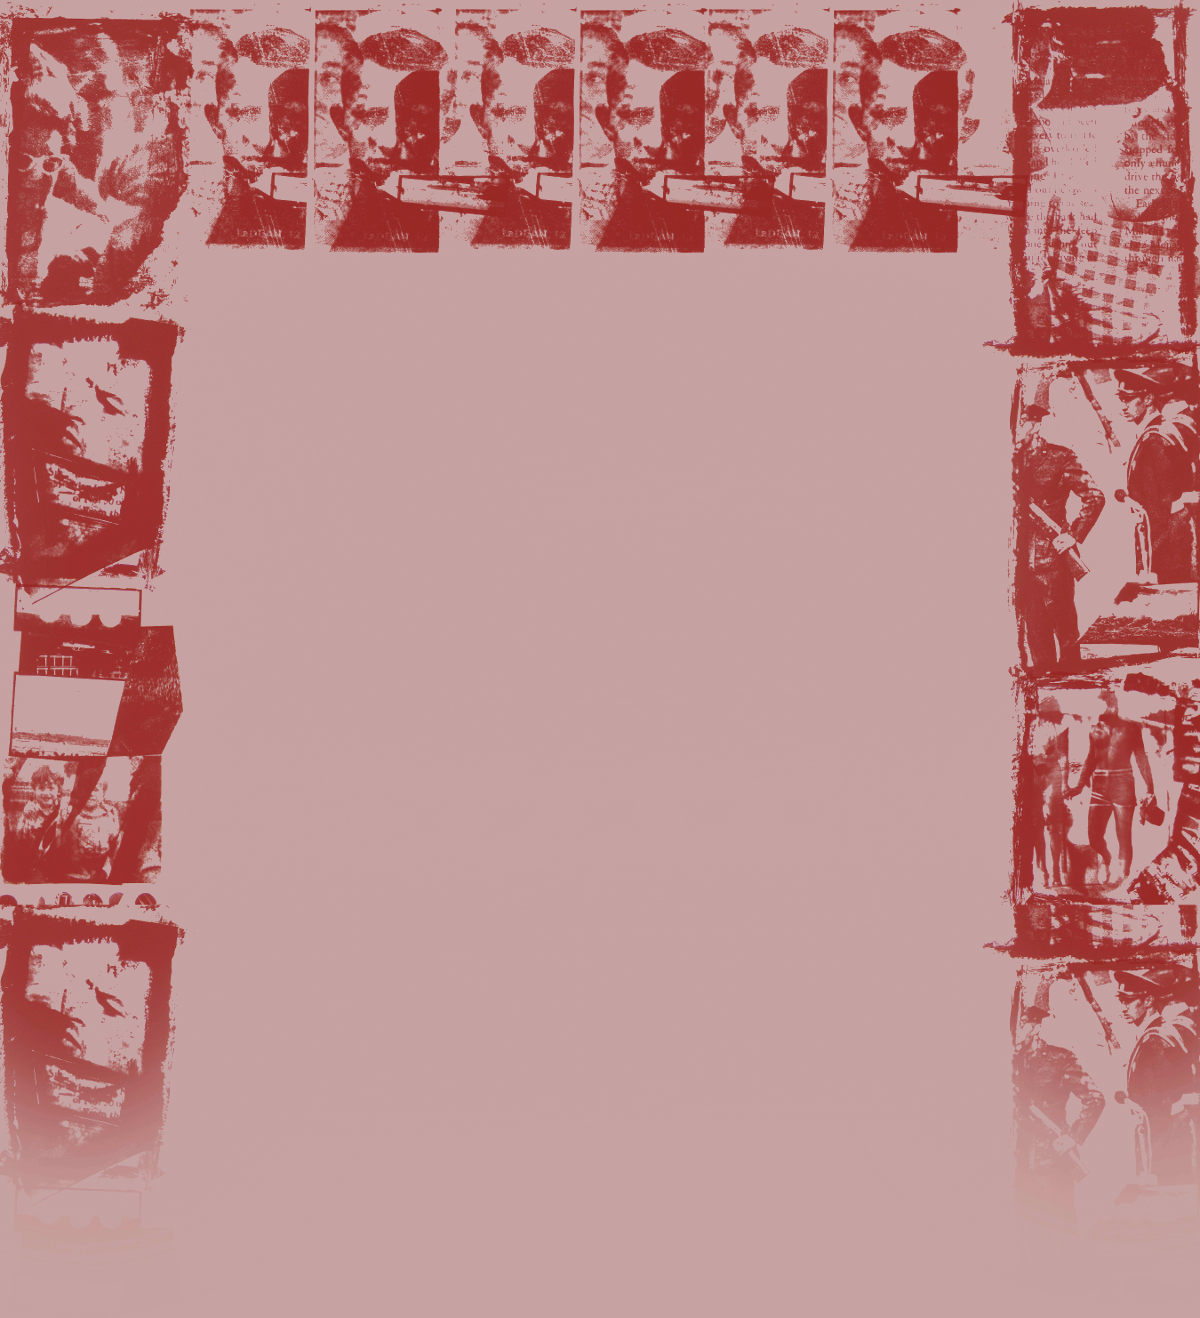
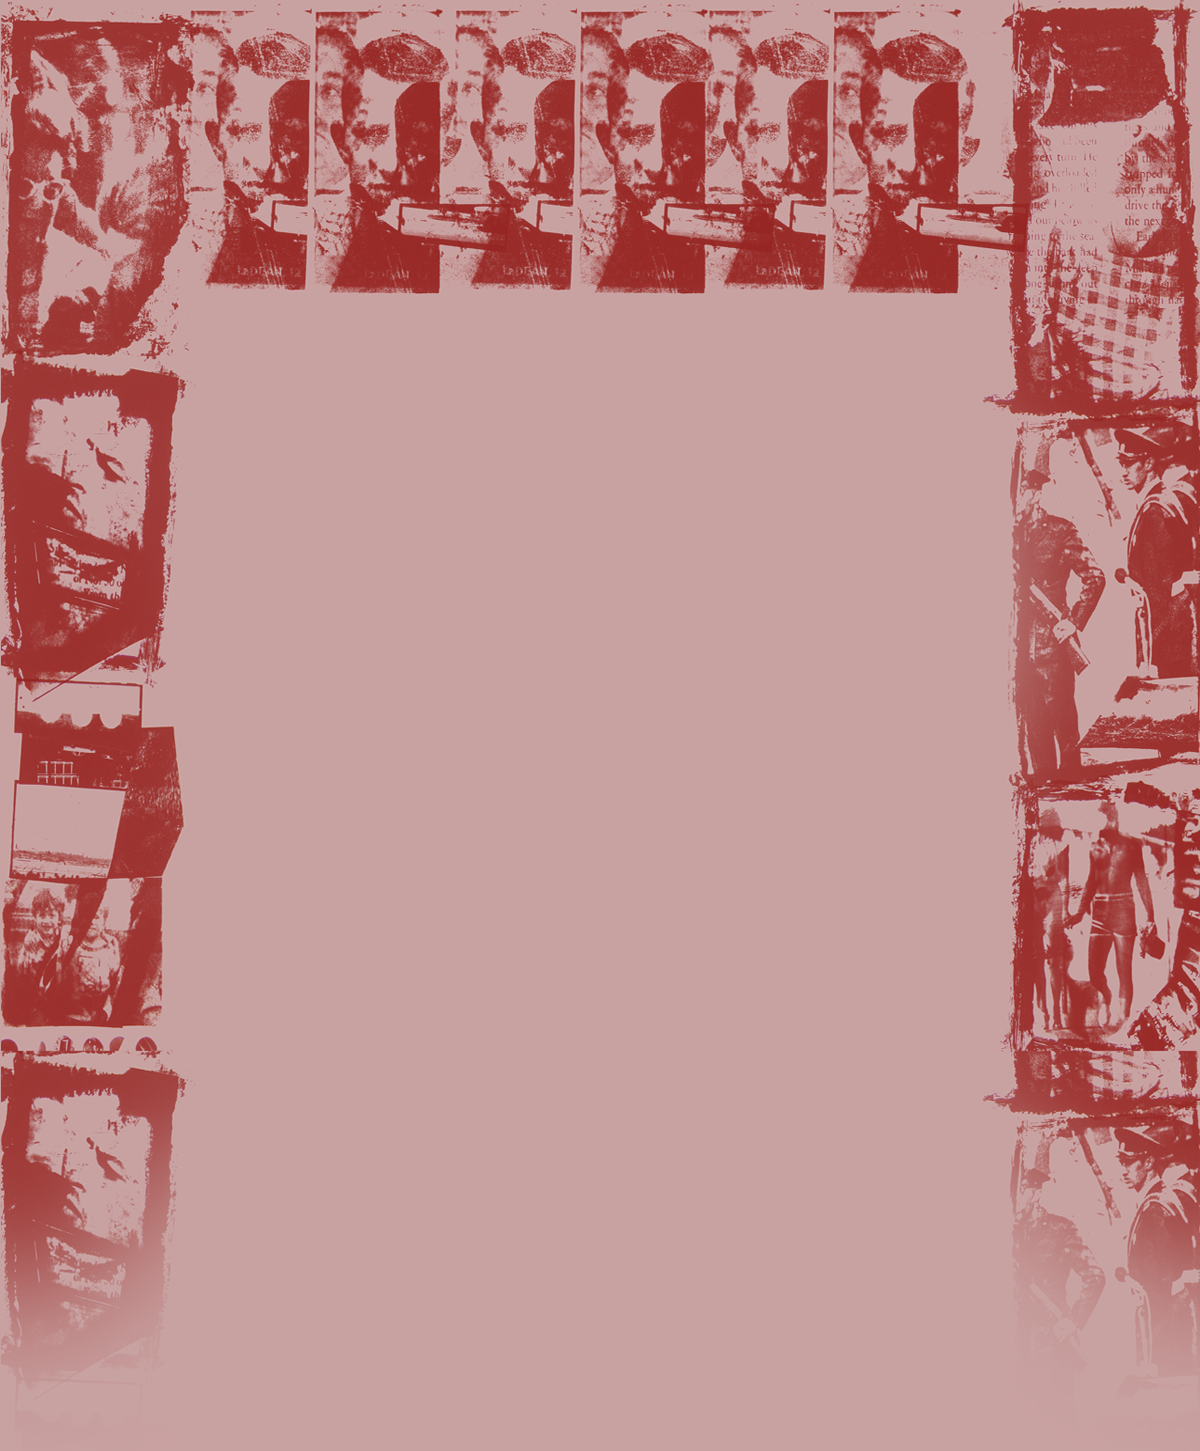
Updated the background images to reflect the current mockup.
Background extends further down and fades at the bottom.

Changed region(s): [[0.0, 0.0, 1.0, 0.9332]]

diff --git a/style.css b/style.css
@@ -10,7 +10,7 @@ a {
 
 #center-container {
 	width: 1200px;
-	height: 1318px;
+	height: 1451px;
 	background-image: url('images/background-center.png');
 	background-repeat: no-repeat;
 /*	background-attachment: fixed; */
